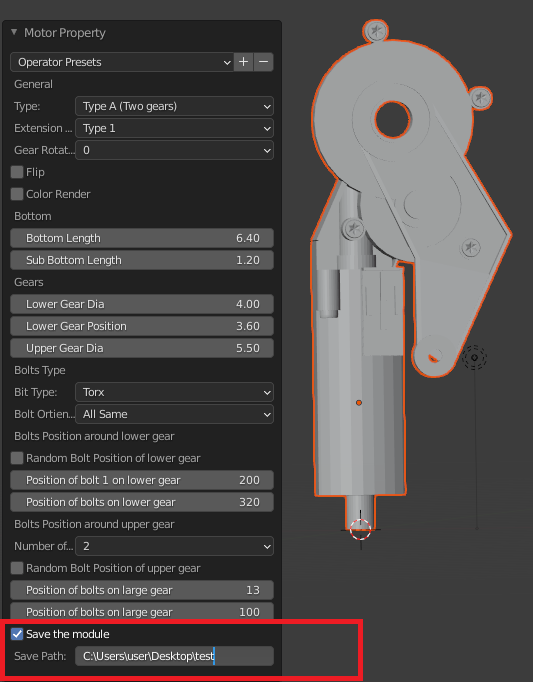
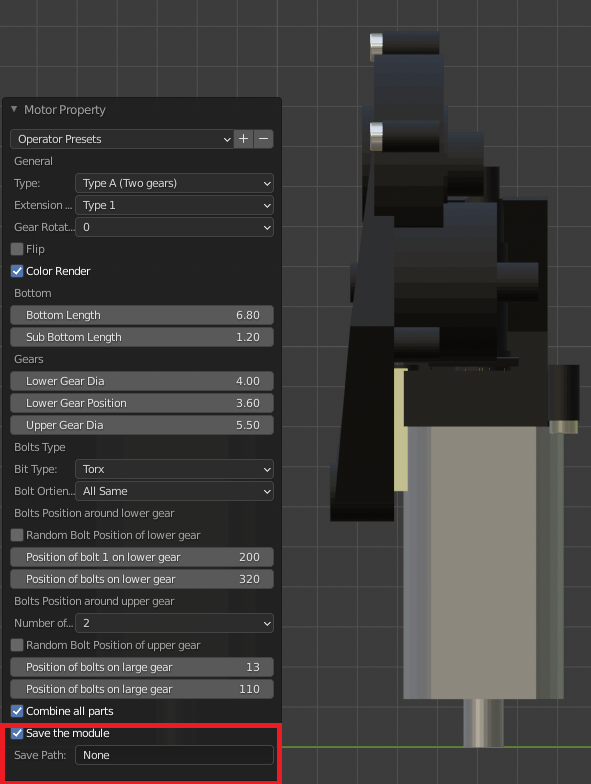
Fixed changing motor bug, added new feature

diff --git a/src/motor.py b/src/motor.py
@@ -207,9 +207,10 @@ class Motor_Creator(Factory):
         hole.select_set(True)
         bpy.ops.object.delete()
 
-        bpy.ops.mesh.primitive_cylinder_add(radius=self.FOUR_CYL_DIA/2, depth=50, location=(0,0,0))
+        bpy.ops.mesh.primitive_cylinder_add(radius=self.FOUR_CYL_DIA, depth=main_hight/2, location=(ub_lx,ub_ly,ub_lz+main_hight/4))
         new_hole = bpy.context.object
         self.diff_obj(cube_1,new_hole)
+        #self.diff_obj(convex,new_hole)
         new_hole.select_set(True)
         bpy.ops.object.delete()
         #Cereate  Bolt 1
@@ -233,7 +234,7 @@ class Motor_Creator(Factory):
 
         mid = self.combine_all_obj(mid_1,[bolt_1[0],bolt_2[0],convex])
         mid.name = 'Middle_Part'
-
+        mid["motor_id"] = self.motor_id
         return mid, [bolt_1[1], bolt_2[1]]
 
     def create_en_part(self):
@@ -364,12 +365,40 @@ class Motor_Creator(Factory):
 
         bpy.ops.object.select_all(action='DESELECT')
         main.select_set(True)
-        bpy.ops.transform.resize(value=(0.8, 0.9, 1))
+        bpy.ops.transform.resize(value=(0.8, 0.95, 1))
         bpy.ops.mesh.primitive_cylinder_add(radius=self.FOUR_CYL_DIA, depth=50, location=(0,0,0))
         hole = bpy.context.object
         self.diff_obj(main,hole)
         hole.select_set(True)
         bpy.ops.object.delete()
+
+        main_hole = self.create_motor_main((0, 0, z_main-0.2),main_hight,main_width,length_en)
+        bpy.ops.object.select_all(action='DESELECT')
+        main_hole.select_set(True)
+        bpy.ops.transform.resize(value=(0.7, 0.8, 1))
+        self.diff_obj(main,main_hole)
+        main_hole.select_set(True)
+        bpy.ops.object.delete()
+
+        bpy.ops.mesh.primitive_cylinder_add(radius=self.FOUR_CYL_DIA, depth=self.BOLT_LENGTH, location=(0, 0, z_main+0.8*self.BOLT_LENGTH))
+        uper_cyl = bpy.context.object#self.create_ring(position=(0, 0, z_main+0.6*self.BOLT_LENGTH), height=self.BOLT_LENGTH, radius=self.FOUR_CYL_DIA, thickness=0.5*self.FOUR_CYL_DIA)
+        bpy.context.view_layer.objects.active = uper_cyl
+        bpy.ops.object.modifier_add(type='BEVEL')
+        bpy.context.object.modifiers["Bevel"].offset_type = 'OFFSET'
+        bpy.context.object.modifiers["Bevel"].width_pct = 0.35#0.75*roter_rad*2
+        bpy.context.object.modifiers["Bevel"].segments = 31
+        bpy.context.object.modifiers["Bevel"].limit_method = 'ANGLE'
+        bpy.context.object.modifiers["Bevel"].angle_limit = 0.20
+        bpy.ops.object.modifier_apply(modifier="Bevel")
+
+        bpy.ops.mesh.primitive_cylinder_add(radius=self.FOUR_CYL_DIA/4, depth=50, location=(0, 0, z_main+0.8*self.BOLT_LENGTH))
+        uper_cyl_hole = bpy.context.object
+        self.diff_obj(uper_cyl,uper_cyl_hole)
+        uper_cyl_hole.select_set(True)
+        bpy.ops.object.delete()
+
+        main=self.combine_all_obj(main,[uper_cyl])
+
 
         if self.color_render:
             self.rend_color(main, "Energy")
@@ -384,10 +413,10 @@ class Motor_Creator(Factory):
         en_part = self.combine_all_obj(en_part_1,[en_part_2,main])
 
         en_part.name = "Charger"
-        en_part["category_id"] = 1
+        en_part["motor_id"] = self.motor_id
 
         self.save_modell(en_part)
-
+        
         return en_part
 
     ##############################################################################################################################
@@ -1411,7 +1440,7 @@ class Type_A(Motor_Creator):
         extension_zone, bolt_list_2 = self.create_up(length_relativ, extension=True)
         self.rotate_object(extension_zone)
         extension_zone.name = "Cover"
-        extension_zone["category_id"] = 3
+        extension_zone["motor_id"] = self.motor_id
         self.save_modell(extension_zone)
         
         for bolt in bolt_list_2:
@@ -1424,7 +1453,7 @@ class Type_A(Motor_Creator):
 
         gear_1 = self.combine_all_obj(board,[up1,middle])
         gear_1.name = "Gear_Container"
-        gear_1["category_id"] = 2
+        gear_1["motor_id"] = self.motor_id
         self.save_modell(gear_1)
 
         gear_2 = self.combine_all_obj(gear_1,bolt_list_1, combine=self.mf_Combine)
@@ -1432,7 +1461,7 @@ class Type_A(Motor_Creator):
         upper = self.combine_all_obj(gear_2, ex_list, combine=self.mf_Combine)
         x,y,z = upper.location
         self.calculate_bolt_position()
-
+        upper["motor_id"] = self.motor_id
         gear = self.combine_all_obj(upper, bolt_list_middle, combine=self.mf_Combine)
 
         return upper
@@ -1949,7 +1978,7 @@ class Type_B(Motor_Creator):
 
         container = self.combine_all_obj(upper_1, [middle])
         container.name = 'Gear_Container' 
-        container["category_id"] = 2
+        container["motor_id"] = self.motor_id
  
         self.save_modell(container)
 
@@ -1961,7 +1990,7 @@ class Type_B(Motor_Creator):
         extension_zone.name = "Cover"  
         self.rotate_object(extension_zone)
         
-        extension_zone["category_id"] = 3
+        extension_zone["motor_id"] = self.motor_id
         self.save_modell(extension_zone)  
             
         for bl in bolt_list:
@@ -1983,7 +2012,7 @@ class Type_B(Motor_Creator):
         self.calculate_bolt_position()
                 
         gear = self.combine_all_obj(upper, bolt_list_middle, combine=self.mf_Combine)
-
+        gear["motor_id"] = self.motor_id
         return gear
     
     def flip_object(self, object_rotate):

diff --git a/src/Motor_Factory.py b/src/Motor_Factory.py
@@ -282,7 +282,7 @@ class Motor_Factory_Operator(bpy.types.Operator,AddObjectHelper):
                 description = "Random Bolt Rotation")
 
     mf_Combine : BoolProperty(name = "Combine all parts",
-                default = True,
+                default = False,
                 description = "Random Bolt Rotation")
     
     mf_Upper_Gear_Bolt_Position_1_1 = IntProperty(attr='mf_Upper_Gear_Bolt_Position_1',
@@ -442,16 +442,22 @@ class Motor_Factory_Operator(bpy.types.Operator,AddObjectHelper):
         return context.scene is not None
 
     def execute(self, context):
+        
         if  context.selected_objects != [] and context.active_object and \
-            ('Motor' in context.active_object.data.name):
-            
+            ('motor_id' in context.active_object.keys()):    
+            x = context.active_object.location.x
+            y = context.active_object.location.y
+            z = context.active_object.location.z       
             self.delete_motor(context)
-
             obj = self.create_motor()
+            if self.mf_Combine:
+                obj.location.x=x
+                obj.location.y=y
+                obj.location.z=z
+            
 
         else:
-            obj = self.create_motor()
-
+            obj = self.create_motor()    
         obj.data["Motor"] = True
         obj.data["change"] = False
         for prm in self.MotorParameters:
@@ -508,18 +514,26 @@ class Motor_Factory_Operator(bpy.types.Operator,AddObjectHelper):
         
         #Create bottom part
         bottom = creator.create_Bottom()
+        bottom["motor_id"] = creator.motor_id
         #Create energy part (Electric socket)
         en_part = creator.create_en_part()
+        en_part["motor_id"] = creator.motor_id
         #Create Upper part
         upper_part = creator.create_upper_part()
+        upper_part["motor_id"] = creator.motor_id
         #
-        
-        obj_list=[upper_part, en_part,creator.ROTOR, creator.IN_GEAR_1, creator.IN_GEAR_2]
+        try:
+            creator.ROTOR["motor_id"] = creator.motor_id
+            creator.IN_GEAR_1["motor_id"] = creator.motor_id
+            creator.IN_GEAR_2["motor_id"] = creator.motor_id
+        except :
+            pass
+        obj_list=[upper_part, en_part, creator.ROTOR, creator.IN_GEAR_1, creator.IN_GEAR_2]
         # Combine all created parts
         motor = creator.combine_all_obj(bottom,obj_list, combine=self.mf_Combine)     
         motor.name = "Motor"
         motor.data.name = "Motor"
-        
+        motor["motor_id"] = creator.motor_id
         # Check if color should be rendered
         for area in bpy.context.screen.areas: # iterate through areas in current screen
             if area.type == 'VIEW_3D':               
@@ -544,6 +558,7 @@ class Motor_Factory_Operator(bpy.types.Operator,AddObjectHelper):
            self.temp_save = False   
            self.save_path = "None" 
         creator.clear_bolt() 
+
         self.test(creator)    
         return motor
 
@@ -553,11 +568,17 @@ class Motor_Factory_Operator(bpy.types.Operator,AddObjectHelper):
     
     def delete_motor(self, contex):
         scene = bpy.context.scene
-
+        motor = contex.active_object
+        id = motor["motor_id"]
         for obj in scene.objects:
-            obj.select_set(True)
-            bpy.ops.object.delete()
-        pass
+            try:
+                if obj["motor_id"] == id:
+                    obj.select_set(True)
+                    bpy.ops.object.delete()
+            except:
+                continue
+
+
 
     def test(self,creator):
         #creator.create_rotor()

diff --git a/src/utility.py b/src/utility.py
@@ -4,7 +4,7 @@ import math
 import mathutils
 import random
 from math import radians
-import bmesh
+import time
 import random
 import csv
 import re
@@ -210,7 +210,7 @@ class Factory:
         self.init_modify(factory)
         self.general_Bolt = self.create_general_bolt()
         self.mf_Combine =  factory.mf_Combine
-        self.motor_id = random.randrange(1, 1e5)
+        self.motor_id = random.randrange(1, 1e7)
 
     
     def init_modify(self,factory):
@@ -742,6 +742,7 @@ class Factory:
         elif bit_type == 'mf_Bit_Allen':
             self.bolt_roate_angle_list.append(Angle%60)
         bolt["category_id"] = 4
+        bolt["motor_id"] = self.motor_id
         return [out_cyl,bolt]
 
     def rend_color(self, obj, part):
@@ -1081,6 +1082,7 @@ class Factory:
             teeth_list.append(teeth)
             bpy.ops.object.select_all(action='DESELECT')
         internal_gear = self.combine_all_obj(ring_main, teeth_list)
+        internal_gear["motor_id"] = self.motor_id
         return internal_gear   
 
     def create_internal_gear(self, position, height, radius, number, thickness=0.5, teeth_hight=1):

diff --git a/README.md b/README.md
@@ -2,6 +2,8 @@
 
 This is an blender addon which can create motor. We parameterized many features of a motor and so user can generate various model in same type but different parameters.
 
+**This is an extended version of** [Blender Mortor Factory](https://github.com/cold-soda-jay/blenderMotorFactory). The main different between two version is that in thsi version the inner parts of motor will also be generated. Including hears and rotor.
+
 
 ## 1. Installation
 
@@ -22,7 +24,7 @@ This Addon allow user generate various model and save the parameter as well as m
 
 The model will be saved as a whole entity and seperate parts
 
-<div align="left"><img src="pic\saved_file.png" alt="Image" style="zoom:0%;" /></div>
+<div align="left"><img src="pic\1.png" alt="Image" style="zoom:0%;" /></div>
 
 <div align="center"><img src="pic\parts_model.png" alt="Image" style="zoom:80%;" /></div>
 
